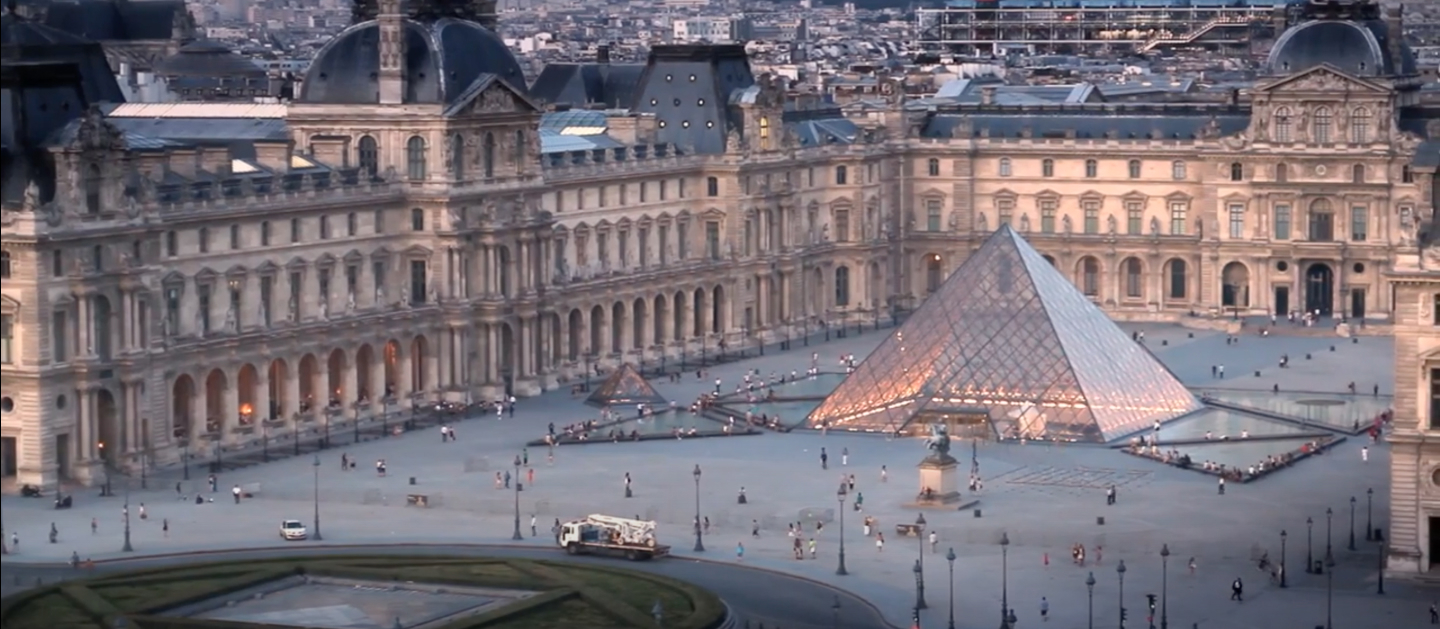
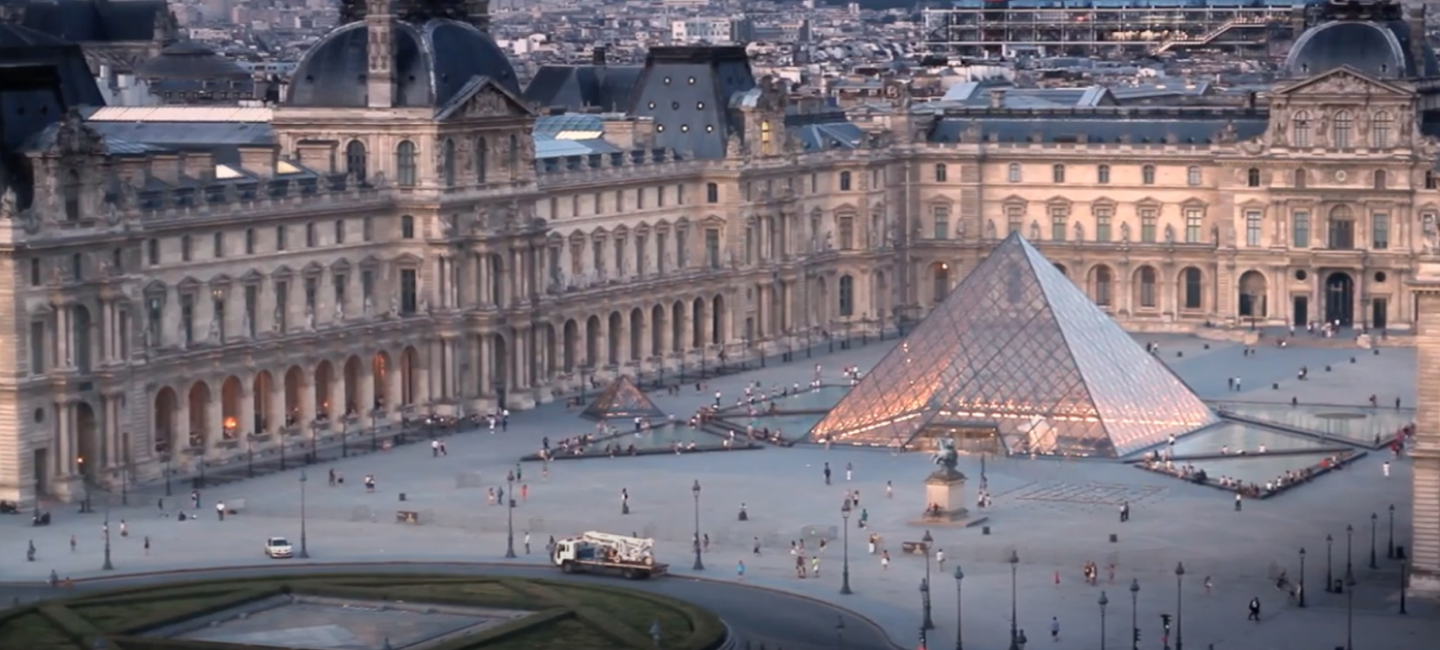
fix: style fixes

diff --git a/museum/src/style.css b/museum/src/style.css
@@ -24,7 +24,7 @@ body {
   color: #000000;
   font-weight: 100;
 }
-.visualy-hidden {
+.visually-hidden {
   position: absolute;
   visibility: hidden;
 }
@@ -72,6 +72,9 @@ body {
 }
 .nav-item:not(:last-child) {
   margin-right: 55px;
+}
+.nav-item:nth-child(4) {
+  margin-right: 60px;
 }
 .nav-item-link {
   text-decoration: none;
@@ -123,6 +126,12 @@ body {
   margin-right: 55px;
   margin-left: 74px;
 }
+.current-bullet {
+  margin-right: 10px;
+}
+.bul-num {
+  margin-left: 10px;
+}
 .bullets {
   display: flex;
   align-items: center;
@@ -172,7 +181,6 @@ body {
 .arrow-left {
   background-image: url('assets/svg/arrow-left.svg');
   margin-right: 20px;
-  margin-left: 45px;
 }
 .arrow-right {
   background-image: url('assets/svg/arrow-right.svg');
@@ -243,7 +251,7 @@ body {
   flex-wrap: wrap;
   justify-content: space-between;
   align-items: flex-start;
-  row-gap: 77px;
+  row-gap: 75px;
 }
 .card-item {
   font-weight: 300;
@@ -302,12 +310,16 @@ body {
   border-bottom: 3px solid var(--dark-red);
 }
 .comparison-section-text {
+  width: 650px;
   font-weight: 300;
   font-size: 22px;
   line-height: 38px;
   margin-bottom: 25px;
   color: #ffffff;
   letter-spacing: normal;
+}
+.comparison-section-text:last-child {
+  width: 660px;
 }
 .section-text-yellow {
   color: var(--font-gold);
@@ -316,7 +328,7 @@ body {
 .comparison-field {
   width: 720px;
   height: 700px;
-  padding-top: 15px;
+  margin-top: 15px;
   position: relative;
 }
 .old-photo,
@@ -333,34 +345,34 @@ body {
 .new-photo {
   z-index: 20;
   background-image: url('assets/img/comparsion-img2.jpg');
-  width: 71%;
+  width: 61%;
 }
 .separator {
   position: absolute;
   z-index: 30;
-  top: 52.14%;
-  left: 71%;
-  width: 39px;
-  height: 39px;
+  top: 50%;
+  left: 61%;
+  width: 30px;
+  height: 30px;
   transform: translate(-50%, -50%);
   border: 5px solid #ffffff;
   border-radius: 50%;
   cursor: pointer;
 }
 .separator::before {
-  bottom: 44px;
+  bottom: 35px;
 }
 .separator::after {
-  top: 44px;
+  top: 35px;
 }
 .separator::after,
 .separator::before {
   content: '';
   position: absolute;
-  left: 17px;
+  left: 13px;
   z-index: 30;
   width: 5px;
-  height: 332px;
+  height: 330px;
   background-color: #ffffff;
 }
 .grid-wrapper {
@@ -378,7 +390,7 @@ body {
 }
 .video-container-image {
   width: 1440px;
-  height: 629px;
+  height: 650px;
   position: relative;
 }
 .video-control {
@@ -406,9 +418,10 @@ body {
   filter: invert(61%) sepia(0%) saturate(0%) hue-rotate(301deg) brightness(99%) contrast(96%);
   transition: 0.4s;
 }
-input[type='range'] {
+.video-length,
+.video-volume {
   cursor: pointer;
-  background: linear-gradient(to right, var(--dark-red) 0%, var(--dark-red) 47%, #c4c4c4 47%, #c4c4c4 100%);
+  background: linear-gradient(to right, var(--dark-red) 0%, var(--dark-red) 54%, #c4c4c4 54%, #c4c4c4 100%);
   height: 8px;
   outline: none;
   -webkit-appearance: none;
@@ -427,6 +440,7 @@ input[type='range']::-webkit-slider-thumb {
 .video-volume {
   width: 155px;
   margin-right: 50px;
+  background: linear-gradient(to right, var(--dark-red) 0%, var(--dark-red) 43%, #c4c4c4 43%, #c4c4c4 100%);
 }
 .play-big {
   width: 220px;
@@ -437,7 +451,7 @@ input[type='range']::-webkit-slider-thumb {
   position: absolute;
   background-color: transparent;
   left: 610px;
-  top: 205px;
+  top: 215px;
   padding: 0;
 }
 .play {
@@ -470,6 +484,9 @@ input[type='range']::-webkit-slider-thumb {
   background-image: url('assets/svg/full.svg');
   background-repeat: no-repeat;
   background-position: center;
+  margin-right: 0;
+}
+.video-bullets .bullets {
   margin-right: 0;
 }
 .online-tour .section-title {
@@ -532,7 +549,7 @@ input[type='range']::-webkit-slider-thumb {
 }
 .pictures-container {
   overflow-y: hidden;
-  height: 2035px;
+  height: 1960px;
   width: 100%;
   position: relative;
 }
@@ -561,8 +578,7 @@ input[type='range']::-webkit-slider-thumb {
   margin-top: 50px;
 }
 .tickets {
-  padding-top: 75px;
-  padding-bottom: 60px;
+  padding: 75px 0;
   position: relative;
   overflow: hidden;
 }
@@ -599,16 +615,16 @@ input[type='range']::-webkit-slider-thumb {
   border-radius: 50%;
   background-color: #000000;
   position: absolute;
-  top: 8px;
+  top: 9px;
   left: -35px;
 }
 .ticket-amount-list {
   text-align: right;
 }
 .ticket-type-list-item:not(:first-child) {
-  margin-bottom: 51px;
-  font-size: 21px;
-  line-height: 25px;
+  margin-bottom: 25px;
+  font-size: 22px;
+  line-height: 26px;
 }
 .ticket-amount-list-item {
   margin-bottom: 60px;
@@ -660,9 +676,9 @@ input[type='range']::-webkit-slider-thumb {
 }
 .ticket-number {
   all: unset;
-  width: 25px;
+  width: 26px;
   text-align: center;
-  margin-right: 23px;
+  margin-right: 30px;
   overflow: hidden;
   font-size: 22px;
   line-height: 26px;
@@ -677,7 +693,7 @@ input[type='number']::-webkit-inner-spin-button {
   width: 18px;
   height: 38px;
   font-size: 32px;
-  line-height: 37px;
+  line-height: 8px;
   text-align: center;
   cursor: pointer;
   border: none;
@@ -685,7 +701,8 @@ input[type='number']::-webkit-inner-spin-button {
   color: #000000;
 }
 .minus {
-  margin-right: 30px;
+  margin-right: 26px;
+  padding-bottom: 30px;
 }
 .buy-btn {
   display: inline-block;
@@ -697,6 +714,7 @@ input[type='number']::-webkit-inner-spin-button {
   font-size: 22px;
   line-height: 26px;
   letter-spacing: 2px;
+  font-weight: 300;
   padding: 0;
   cursor: pointer;
   border: none;
@@ -717,9 +735,6 @@ input[type='number']::-webkit-inner-spin-button {
   align-items: flex-start;
   column-gap: 0;
   margin-bottom: 74px;
-}
-.contacts-list {
-  padding-top: 10px;
 }
 .contacts-list-item {
   font-size: 22px;
@@ -750,11 +765,11 @@ input[type='number']::-webkit-inner-spin-button {
   height: 620px;
 }
 .page-footer {
-  padding: 75px 0 50px 0;
+  padding: 84px 0 23px 0;
 }
 .page-footer .container {
   display: grid;
-  grid-template-columns: 340px 764px 336px;
+  grid-template-columns: 340px 760px 340px;
 }
 .logo-link.footer {
   align-self: start;
@@ -762,13 +777,17 @@ input[type='number']::-webkit-inner-spin-button {
 }
 .footer-nav {
   display: grid;
-  grid-template-columns: 260px 90px;
+  grid-template-columns: 257px 90px;
   grid-template-rows: repeat(3, 1fr);
   grid-auto-flow: column;
+  margin-top: 5px;
+}
+.page-footer .nav-item {
+  margin-bottom: 25px;
 }
 .socials-container {
   align-self: end;
-  padding-bottom: 14px;
+  margin-bottom: 32px;
 }
 .socials {
   display: flex;
@@ -779,7 +798,7 @@ input[type='number']::-webkit-inner-spin-button {
   border-radius: 50%;
   width: 48px;
   height: 48px;
-  margin-right: 24px;
+  margin-right: 25px;
   display: flex;
   align-items: center;
   justify-content: center;
@@ -823,8 +842,8 @@ input[type='number']::-webkit-inner-spin-button {
   padding: 50px 0;
 }
 .sub-footer .container {
-  display: flex;
-  justify-content: space-between;
+  display: grid;
+  grid-template-columns: 570px 305px 1fr;
   color: #ffffff;
   font-size: 22px;
   line-height: 22px;
@@ -836,6 +855,9 @@ input[type='number']::-webkit-inner-spin-button {
   font-size: 22px;
   line-height: 22px;
   transition: color 0.4s;
+}
+.sub-footer-link:last-child {
+  justify-self: end;
 }
 .form-wrapper {
   width: 1440px;

diff --git a/museum/src/index.html b/museum/src/index.html
@@ -11,7 +11,7 @@
   <body>
     <header class="page-header">
       <div class="container">
-        <h1 class="visualy-hidden">Louvre museum</h1>
+        <h1 class="visually-hidden">Louvre museum</h1>
         <a class="logo-link" href="index.html"
           ><svg class="logo-image" width="49" height="26" viewBox="0 0 49 26" fill="white" xmlns="http://www.w3.org/2000/svg">
             <path
@@ -43,7 +43,7 @@
           <a class="btn" href="tour7.html" target="_blank">Discover the Louvre</a>
           <div class="slider"></div>
           <div class="bullets-container">
-            <p class="bullets-number"><span class="current-bullet">01</span> | 05</p>
+            <p class="bullets-number"><span class="current-bullet">01</span>|<span class="bul-num">05</span></p>
             <ul class="bullets">
               <li class="bullet-item"><span class="bullet b-active"></span></li>
               <li class="bullet-item"><span class="bullet"></span></li>
@@ -133,19 +133,19 @@
           <div class="video-container">
             <div class="video-container-image">
               <button class="video-btn play-big"></button>
-              <img src="assets/img/video-prew.jpg" alt="Online tour video" width="1440" height="629" />
+              <img src="assets/img/video-prew.jpg" alt="Online tour video" width="1440" height="650" />
             </div>
             <div class="video-control">
               <button class="video-btn play"></button>
-              <input type="range" class="video-length" max="100" min="0" value="47" step="1" />
+              <input type="range" class="video-length" max="100" min="0" value="54" step="1" />
               <button class="video-btn sound"></button>
-              <input type="range" class="video-volume" max="100" min="0" value="47" step="1" />
+              <input type="range" class="video-volume" max="100" min="0" value="43" step="1" />
               <button class="video-btn fullscreen"></button>
             </div>
             <div class="video-playlist">
-              <iframe width="452" height="245" src="https://www.youtube.com/embed/aWmJ5DgyWPI" title="YouTube video player" frameborder="0" allow="accelerometer; autoplay; clipboard-write; encrypted-media; gyroscope; picture-in-picture" allowfullscreen></iframe>
-              <iframe width="452" height="245" src="https://www.youtube.com/embed/Vi5D6FKhRmo" title="YouTube video player" frameborder="0" allow="accelerometer; autoplay; clipboard-write; encrypted-media; gyroscope; picture-in-picture" allowfullscreen></iframe>
-              <iframe width="452" height="245" src="https://www.youtube.com/embed/NOhDysLnTvY" title="YouTube video player" frameborder="0" allow="accelerometer; autoplay; clipboard-write; encrypted-media; gyroscope; picture-in-picture" allowfullscreen></iframe>
+              <iframe width="452" height="254" src="https://www.youtube.com/embed/aWmJ5DgyWPI" title="YouTube video player" frameborder="0" allow="accelerometer; autoplay; clipboard-write; encrypted-media; gyroscope; picture-in-picture" allowfullscreen></iframe>
+              <iframe width="452" height="254" src="https://www.youtube.com/embed/Vi5D6FKhRmo" title="YouTube video player" frameborder="0" allow="accelerometer; autoplay; clipboard-write; encrypted-media; gyroscope; picture-in-picture" allowfullscreen></iframe>
+              <iframe width="452" height="254" src="https://www.youtube.com/embed/NOhDysLnTvY" title="YouTube video player" frameborder="0" allow="accelerometer; autoplay; clipboard-write; encrypted-media; gyroscope; picture-in-picture" allowfullscreen></iframe>
             </div>
             <div class="video-bullets">
               <ul class="bullets">
@@ -192,9 +192,9 @@
             <ul class="ticket-amount-list">
               <li class="ticket-amount-list-item"><h4 class="ticket-amount-list-item-title">Amount</h4></li>
               <li class="ticket-amount-list-item">Basic 18+</li>
-              <li class="ticket-amount-list-item"><button class="minus" onclick="this.nextElementSibling.stepDown()">-</button><input type="number" class="ticket-number" value="1" min="0" max="20" /><button class="plus" onclick="this.previousElementSibling.stepUp()">+</button></li>
+              <li class="ticket-amount-list-item"><button class="minus" onclick="this.nextElementSibling.stepDown()">_</button><input type="number" class="ticket-number" value="1" min="0" max="20" /><button class="plus" onclick="this.previousElementSibling.stepUp()">+</button></li>
               <li class="ticket-amount-list-item">Senior 65+</li>
-              <li class="ticket-amount-list-item"><button class="minus" onclick="this.nextElementSibling.stepDown()">-</button><input type="number" class="ticket-number" value="1" min="0" max="20" /><button class="plus" onclick="this.previousElementSibling.stepUp()">+</button></li>
+              <li class="ticket-amount-list-item"><button class="minus" onclick="this.nextElementSibling.stepDown()">_</button><input type="number" class="ticket-number" value="1" min="0" max="20" /><button class="plus" onclick="this.previousElementSibling.stepUp()">+</button></li>
               <li class="ticket-amount-list-item">Total €220</li>
               <li class="ticket-amount-list-item"><button class="buy-btn">Buy Now</button></li>
             </ul>
